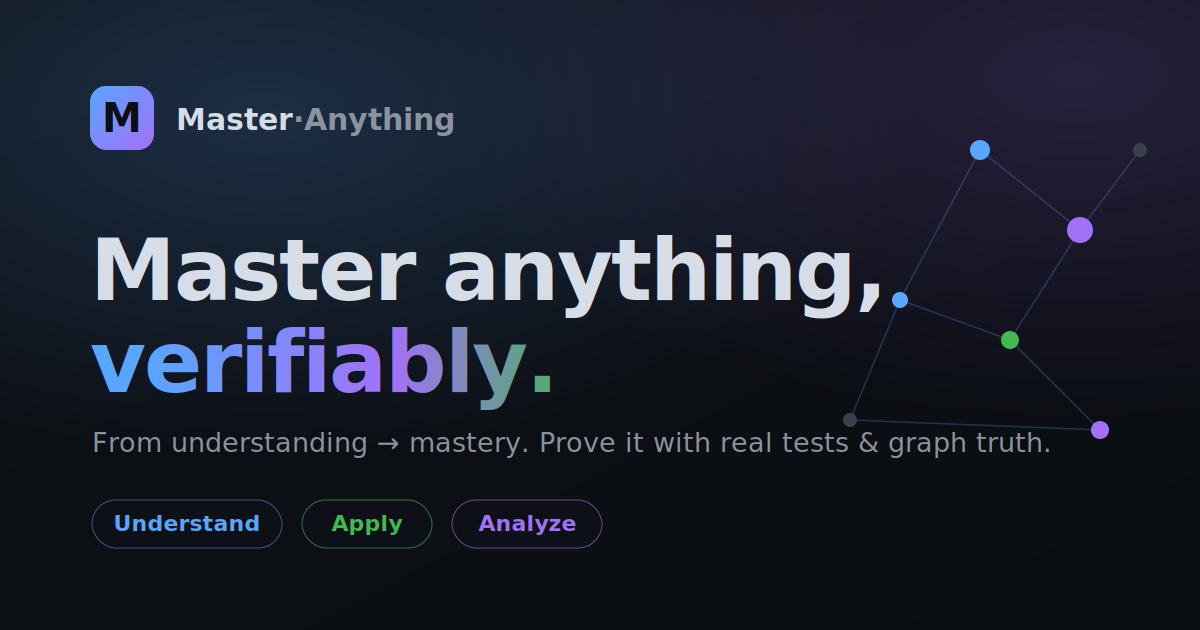
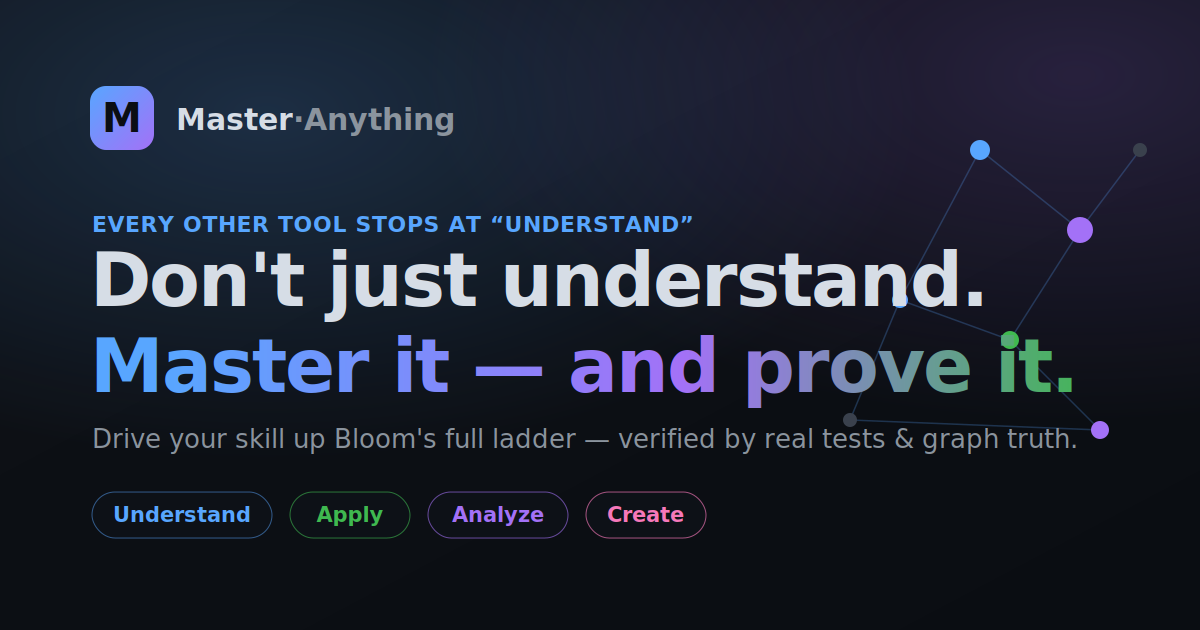
feat(pages): refresh og social card to the master-not-understand message
- eyebrow 'every other tool stops at understand', headline 'Don't just
  understand. / Master it — and prove it.', and the full Bloom ladder
  (Understand · Apply · Analyze · Create) as pills.
- README og alt text updated to match.

Changed region(s): [[0.0617, 0.3317, 0.8942, 0.6635], [0.0925, 0.754, 0.5858, 0.8746], [0.0617, 0.6635, 0.8942, 0.7238]]

diff --git a/README.md b/README.md
@@ -1,6 +1,6 @@
 <div align="center">
 
-<img src="./pages/assets/og.png" alt="Master-Anything — Master anything, verifiably" width="820" />
+<img src="./pages/assets/og.png" alt="Master-Anything — Don't just understand. Master it, and prove it." width="820" />
 
 # Master-Anything
 